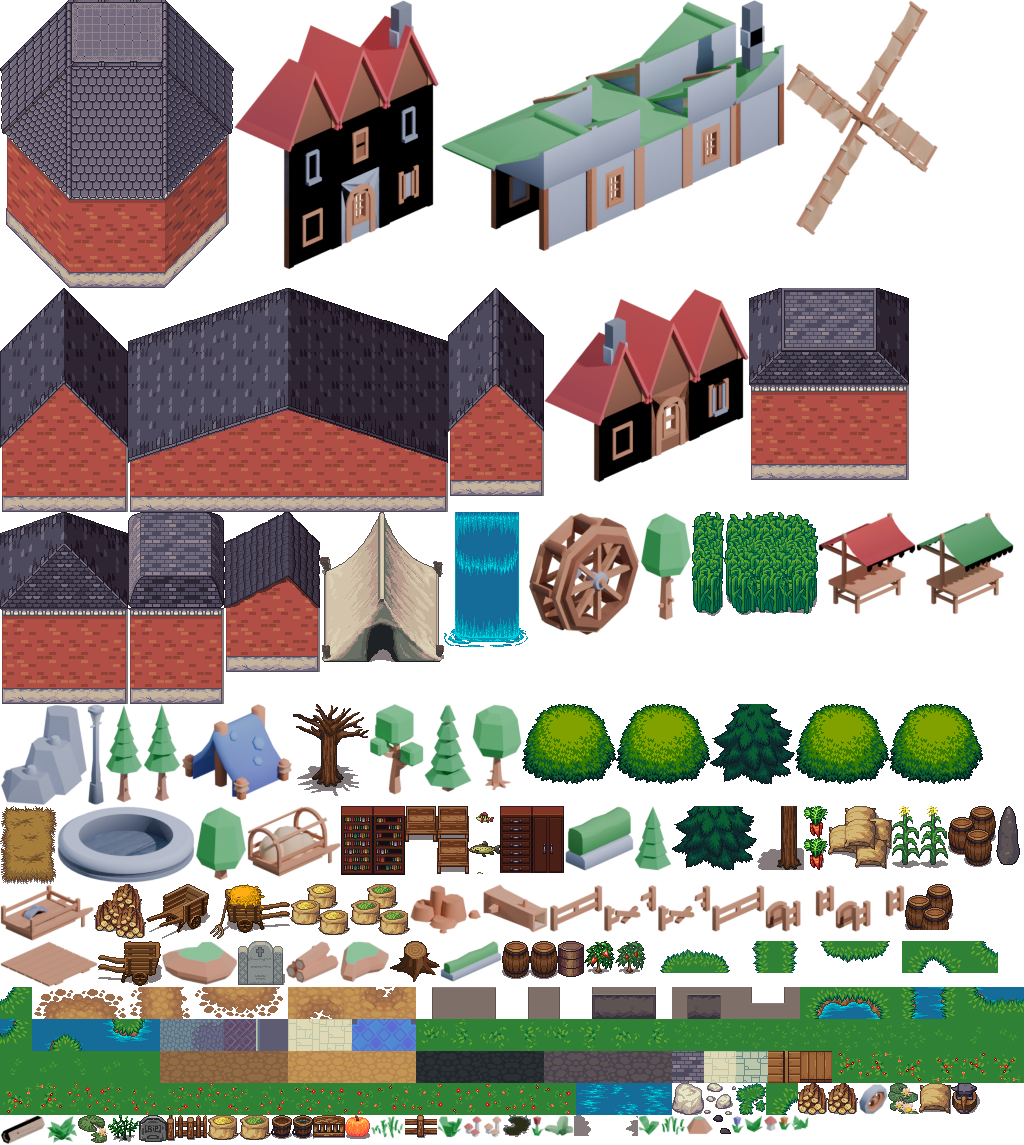
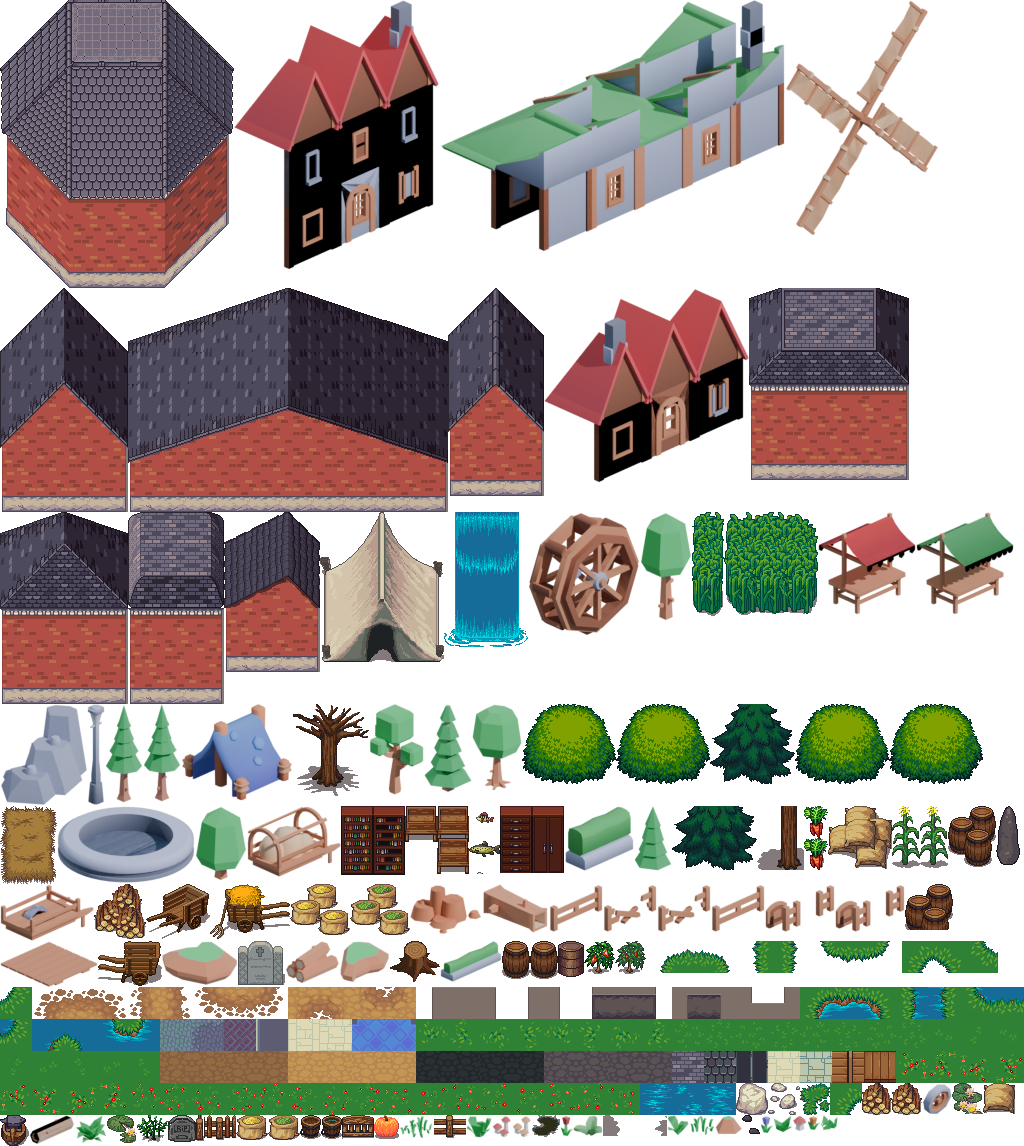
Ninety yards of one grey tile with eight holes punched in it
That was a building seen from outside: no edge to say where it stopped, no
shadow to say it stood on the ground, one roof picture for all forty-three of
them, and eight doorways drawn within a shade of the one other thing this game
paints as a dark rectangle — `openHole`, the mouth of a mine.  Every one of
those doors is correctly placed by the client's own portals and every one of
them read as somewhere to fall into.

**The edge and the shadow come off the plan this pass already has.**  Finding
an outline needs the four neighbours of every roofed tile, and asking
`inBuilding` four more times a tile is four times the work for a line — so the
answer the tile loop already computed is written down and read back.  The
shadow is the same array asked the other way round: a tile of ground is in
shadow when the tile one step towards the light is roofed.  North-west and
above is where the light has always been — `LIGHT`, which the hillside tint
uses — so it falls down and to the right of the glass.

**A hall is not a cottage.**  28 houses, 12 halls and 3 towers wore one grey
brick, so the abbey and a cottage were the same thing at two sizes.  Two more
materials out of the same sheet and cut the same way — a piece already drawn
flat — and the table that says which kind wears which is in `src/`, because
that is a sentence about the art and not about the data.  `tent` has no entry
and is declared rather than defaulted: there is no tent in this slice and no
[…]

diff --git a/src/main.ts b/src/main.ts
@@ -792,6 +792,29 @@ async function main() {
    */
   const ROOF_TILE = tilesMeta['roof'] ? 'roof' : WALL_TILE
   /**
+   * Which roof each kind of building wears.
+   *
+   * One picture covered all forty-three: 28 houses, 12 halls and 3 towers, so
+   * the abbey and a cottage were the same thing at two sizes.  The materials
+   * are cut in `bake_tiles.py` and named for what they are; **which kind wears
+   * which is a sentence about the art and it belongs here**, not in the bake.
+   *
+   * Slate shingle for a hall because a hall is the grand thing in this valley
+   * and the abbey is one; boards for a tower, which is the small roof; and the
+   * brick flat top stays on a house so that Goldshire looks like Goldshire.
+   *
+   * `tent` has no entry and that is declared rather than defaulted: there is
+   * no tent in this slice — `__buildings()` says house 28, hall 12, tower 3 —
+   * and there is no canvas in any sheet this repository has.  `viewcheck`
+   * fails on a kind that is *here* and has no roof, which is the half that
+   * matters; a kind that is not here has nothing to be wrong about.
+   */
+  const ROOF_OF: Record<string, string> = {
+    house: ROOF_TILE,
+    hall: tilesMeta['roof_shingle'] ? 'roof_shingle' : ROOF_TILE,
+    tower: tilesMeta['roof_plank'] ? 'roof_plank' : ROOF_TILE,
+  }
+  /**
    * And the floor a mine has, which is the one kind of building drawn out of
    * the outdoor set.
    *
@@ -5163,6 +5186,11 @@ async function main() {
         .map((q) => `${pre}_${q}`))
     const ids = [...new Set([...GROUND_TILES, ...BLOOM_TILES, ...WATER_TILES,
       ...PAVED_TILES, ...DIRT_TILES, WALL_TILE, ROOF_TILE, FLOOR_TILE,
+      // Every roof a kind can wear, out of the table rather than by name: a
+      // list here and a table there is two lists, and the day they parted the
+      // abbey came out as ninety yards of nothing at all — `drawImage` with an
+      // undefined source draws no pixels and reports no error.
+      ...Object.values(ROOF_OF),
       ROCK_TILE, DIRT_TILE, SHORE_TILE, 'bridge', 'bridge_b', 'stone',
       // Indoors, which is its own scene and its own set.
       'in_floor', 'in_floor2', 'in_rug', 'in_wall',
@@ -5313,6 +5341,15 @@ async function main() {
   })
 
   let fps = 0, frames = 0, acc = 0, drawn = 0, tilesDrawn = 0, npcsDrawn = 0
+  /**
+   * How many tiles of ground the buildings shadowed last frame, and how many
+   * sides of a tile were drawn as a building's edge.
+   *
+   * Counted where the drawing happens rather than worked out again, for the
+   * reason every other counter here exists: a check that recomputes what it is
+   * checking is checking its own copy.
+   */
+  let shaded = 0, outlined = 0
   /**
    * How many pictures the last frame put the hero together out of.
    *
@@ -5755,6 +5792,22 @@ async function main() {
     tilesDrawn = 0
     indoorPaint.clear()
     edged = 0
+    /**
+     * Which building covers each tile of the box, kept so the pass after this
+     * one can find the edges of them.
+     *
+     * A building had no boundary at all: ninety yards of one grey tile with
+     * nothing to say where it stopped.  Finding that edge needs the *four
+     * neighbours* of every roofed tile, and asking `inBuilding` four more
+     * times a tile is four times the work for a line — so the answer this
+     * loop already has is written down and read back.
+     */
+    const cw = xHi - xLo + 1
+    const under: ((typeof buildings)[number] | null)[] =
+      new Array(cw * (yHi - yLo + 1)).fill(null)
+    const roofOf = (ti: number, tj: number) =>
+      (ti < xLo || ti > xHi || tj < yLo || tj > yHi) ? null
+        : under[(ti - xLo) * (yHi - yLo + 1) + (tj - yLo)] ?? null
     if (indoors) { drawRoom(indoors, ground, px); }
     else for (let ti = xLo; ti <= xHi; ti++) {
       for (let tj = yLo; tj <= yHi; tj++) {
@@ -5781,6 +5834,10 @@ async function main() {
         // Asked at the tile's own width, which is the same question the
         // paint below asks a few lines down, so it is asked once.
         const covers = inBuilding(wx, wy, T)
+        // Written down before the tile is skipped for being off the glass,
+        // because the outline of a building that runs off the edge of the
+        // screen is not on the edge of the screen.
+        if (covers) under[(ti - xLo) * (yHi - yLo + 1) + (tj - yLo)] = covers.b
         if (outside(wx, wy) || (openHole(wx, wy) && !covers)) {
           const wide = px * grain
           ctx.fillStyle = '#0a0a0f'
@@ -5875,7 +5932,7 @@ async function main() {
         // what lands under an outline is 2,212 and 525 tiles of `roof` and
         // nothing else — which `viewcheck` now asserts, because the thing that
         // keeps this true is a check and not the shape of the expression.
-        const id = built ? ROOF_TILE
+        const id = built ? (ROOF_OF[built.b.k] ?? ROOF_TILE)
           : span ? span.tile
           : water ? WATER_TILES[Math.floor(h * WATER_TILES.length)]!
           : ink === 'paved' && PAVED_TILES.length > 0
@@ -5984,6 +6041,70 @@ async function main() {
     }
     ctx.setTransform(1, 0, 0, 1, 0, 0)
 
+    // --- a building's shadow and its edge --------------------------------
+    //
+    // From above a building was ninety yards of one grey tile with nothing at
+    // all to say where it stopped or that it stood on the ground: no outline,
+    // no eaves, no shadow.  Both are drawn off the plan this pass wrote down,
+    // so neither costs a second reading of it.
+    //
+    // The shadow first, and only on ground: a tile is in shadow when the tile
+    // one step towards the light is roofed.  The light in this scene is
+    // north-west and above — `LIGHT`, which the hillside tint has always used
+    // — and north-west is up and to the left of the glass, so the shadow falls
+    // down and to the right.  Drawn on the ground rather than under the roof
+    // because this is a drop shadow: what it says is that the roof is *above*
+    // the ground beside it, which is the one thing a flat plan cannot say.
+    if (!indoors) {
+      const wide = px * grain
+      shaded = 0
+      outlined = 0
+      ctx.save()
+      ctx.fillStyle = 'rgba(8, 12, 16, 0.30)'
+      for (let ti = xLo; ti <= xHi; ti++) {
+        for (let tj = yLo; tj <= yHi; tj++) {
+          if (roofOf(ti, tj)) continue
+          if (!roofOf(ti + 1, tj + 1)) continue
+          const cx = screenX(ti * T, tj * T), cy = screenY(ti * T, tj * T)
+          if (cx < -wide || cx > canvas.width + wide
+            || cy < -wide || cy > canvas.height + wide) continue
+          ctx.fillRect(Math.round(cx - wide / 2), Math.round(cy - wide / 2),
+            wide, wide)
+          shaded++
+        }
+      }
+      ctx.restore()
+      // And the edge: one line where a roofed tile meets something that is not
+      // the same building.  Not a stroke round the whole footprint — a plan is
+      // not a polygon and the abbey's is 80,746 cells — but the four sides of
+      // each tile that has a neighbour it does not belong with, which comes to
+      // the same line and is one comparison a side.
+      ctx.save()
+      ctx.strokeStyle = 'rgba(22, 18, 14, 0.85)'
+      ctx.lineWidth = Math.max(1, Math.round(zoom))
+      ctx.beginPath()
+      for (let ti = xLo; ti <= xHi; ti++) {
+        for (let tj = yLo; tj <= yHi; tj++) {
+          const b = roofOf(ti, tj)
+          if (!b) continue
+          const cx = screenX(ti * T, tj * T), cy = screenY(ti * T, tj * T)
+          if (cx < -wide || cx > canvas.width + wide
+            || cy < -wide || cy > canvas.height + wide) continue
+          const x0 = Math.round(cx - wide / 2), y0 = Math.round(cy - wide / 2)
+          const x1 = x0 + wide, y1 = y0 + wide
+          // `ti + 1` is one tile north, which is *up* the glass — see
+          // `screenY`.  Getting this pair the wrong way round draws the line
+          // on the far side of the building it belongs to.
+          if (roofOf(ti + 1, tj) !== b) { ctx.moveTo(x0, y0); ctx.lineTo(x1, y0); outlined++ }
+          if (roofOf(ti - 1, tj) !== b) { ctx.moveTo(x0, y1); ctx.lineTo(x1, y1); outlined++ }
+          if (roofOf(ti, tj + 1) !== b) { ctx.moveTo(x0, y0); ctx.lineTo(x0, y1); outlined++ }
+          if (roofOf(ti, tj - 1) !== b) { ctx.moveTo(x1, y0); ctx.lineTo(x1, y1); outlined++ }
+        }
+      }
+      ctx.stroke()
+      ctx.restore()
+    }
+
     // --- the doors, on the roofs they are cut into ----------------------
     //
     // A closed building needs somewhere visible to go in, or it is a wall
@@ -5998,12 +6119,43 @@ async function main() {
           const X = screenX(dx, dy), Y = screenY(dx, dy)
           if (X < -40 || X > canvas.width + 40 || Y < -40 || Y > canvas.height + 40) continue
           const w = Math.max(6, 2.2 * PPY * zoom), h = Math.max(5, 1.6 * PPY * zoom)
-          ctx.fillStyle = '#1a140e'
-          ctx.fillRect(Math.round(X - w / 2), Math.round(Y - h / 2), Math.round(w), Math.round(h))
-          ctx.strokeStyle = '#c9a86a'
-          ctx.lineWidth = 1
-          ctx.strokeRect(Math.round(X - w / 2) + 0.5, Math.round(Y - h / 2) + 0.5,
-            Math.round(w) - 1, Math.round(h) - 1)
+          const x0 = Math.round(X - w / 2), y0 = Math.round(Y - h / 2)
+          const dw = Math.round(w), dh = Math.round(h)
+          /**
+           * A doorway is a **hole in a roof with the floor showing through
+           * it**, and that is what it is drawn as now.
+           *
+           * It was a dark rectangle with a gold line round it, which is within
+           * a shade of the one other thing this game paints as a dark
+           * rectangle: `openHole`, the mouth of a mine, at `#0a0a0f`.  Eight
+           * doorways on the abbey, all of them correctly placed by the client's
+           * own portals, and every one of them read as somewhere to fall into.
+           *
+           * The floor is the building's own — `in_floor`, the same tile
+           * `drawRoom` lays once you are inside — taken at the darkest shade,
+           * because what you are looking at through the gap is a room with a
+           * roof over it.  Nothing is drawn here that is not already cut: the
+           * doorway is the floor tile, the roof around it, and a line of the
+           * roof's own shadow for a lintel.
+           */
+          // The building's **own** floor, which is the one `drawRoom` lays
+          // once you have walked in: a doorway that shows a different floor
+          // from the room behind it is a doorway into somewhere else.
+          const inside = (INDOOR_FLOOR[b.k] ?? INDOOR_FLOOR['hall'])?.(0.5)
+          const floor = ground.at[inside ?? ''] ?? ground.at[FLOOR_TILE]
+          if (floor !== undefined) {
+            ctx.drawImage(ground.c, floor, 0, px, px, x0, y0, dw, dh)
+          } else {
+            ctx.fillStyle = '#2a2119'
+            ctx.fillRect(x0, y0, dw, dh)
+          }
+          // The jamb: the roof's own dark edge, thicker at the head than at
+          // the sides, which is what a doorway seen from above has.
+          ctx.strokeStyle = 'rgba(18, 14, 10, 0.9)'
+          ctx.lineWidth = Math.max(1, Math.round(zoom))
+          ctx.strokeRect(x0 + 0.5, y0 + 0.5, dw - 1, dh - 1)
+          ctx.fillStyle = 'rgba(18, 14, 10, 0.55)'
+          ctx.fillRect(x0, y0, dw, Math.max(1, Math.round(dh * 0.22)))
         }
       }
     }
@@ -7035,8 +7187,24 @@ async function main() {
     planned: buildings.filter((b) => b.plan).length,
   })
   ;(window as unknown as { __edges: () => unknown }).__edges = () => ({
-    tiles: tilesDrawn, edged,
+    tiles: tilesDrawn, edged, shaded, outlined,
   })
+  /**
+   * Which roof each kind of building here is wearing.
+   *
+   * Both halves: the kinds this world actually contains and the table that
+   * dresses them.  One picture covered all forty-three buildings, so the abbey
+   * and a cottage were the same thing at two sizes, and "how many roof tiles
+   * are there" would have said one and been quite right.
+   */
+  ;(window as unknown as { __roofs: () => unknown }).__roofs = () => {
+    const kinds = [...new Set(buildings.filter((b) => b.k !== 'mine')
+      .map((b) => b.k))].sort()
+    return {
+      kinds, wears: Object.fromEntries(kinds.map((k) => [k, ROOF_OF[k] ?? null])),
+      painted: [...indoorPaint.entries()],
+    }
+  }
   ;(window as unknown as { __edge: () => unknown }).__edge = () => ({
     npcs: npcs.length, elsewhere, unplaceable, beyond, scenery: placed.length,
     /** Walkable ground that is not this slice's, which has to be none. */

diff --git a/pipeline/bake_tiles.py b/pipeline/bake_tiles.py
@@ -225,6 +225,15 @@ GROUND = [
     # is a slope in perspective, and a slope tiled over a footprint reads as a
     # hillside with bricks on it.
     ('roof',       'roofs-preview.png',       280, 110, 32, 32, 'roofs'),
+    # And two more materials, because every building in this world was the same
+    # grey brick: 28 houses, 12 halls and 3 towers under one picture, so the
+    # abbey and a cottage were the same thing at different sizes.  Both cut the
+    # same way as the one above — a piece of this sheet that is already drawn
+    # flat — and both are a **material** rather than a kind, which is why they
+    # are named for what they are: `src/main.ts` decides which kind wears
+    # which, and that is a sentence about the art and not about the data.
+    ('roof_shingle', 'roofs-preview.png',     784, 776, 32, 32, 'roofs'),
+    ('roof_plank',   'roofs-preview.png',     560, 720, 32, 32, 'roofs'),
     ('cobble',     'castlefloors_outside.png', 64,  32, 32, 32, 'hughspectrum'),
     ('cobble2',    'castlefloors_outside.png', 32,  64, 32, 32, 'hughspectrum'),
     # Two decks, because a bridge's planks run across the way you walk: the

diff --git a/art/LPC-TERRAIN-CREDITS.md b/art/LPC-TERRAIN-CREDITS.md
@@ -30,7 +30,7 @@ recorded cannot be complied with.
 
 - **bluecarrot16, Lanea Zimmerman (Sharm), Michele Bucelli (Buch), Casper Nilsson, Xenodora, keith karnage, NaRNeRZz, Talon (Talosaurus)** — CC-BY-SA 3.0 / GPL 3.0  
   <https://opengameart.org/content/lpc-roofs>  
-  `tower`, `house_c`, `hall`, `house_d`, `house_a`, `house_b`, `house_e`, `house_f`, `roof`
+  `tower`, `house_c`, `hall`, `house_d`, `house_a`, `house_b`, `house_e`, `house_f`, `roof`, `roof_shingle`, `roof_plank`
 
 - **Lanea Zimmerman (AKA Sharm)** — CC-BY 3.0 / GPL 3.0 / GPL 2.0 / OGA-BY 3.0  
   <https://opengameart.org/content/tiled-terrains>  
